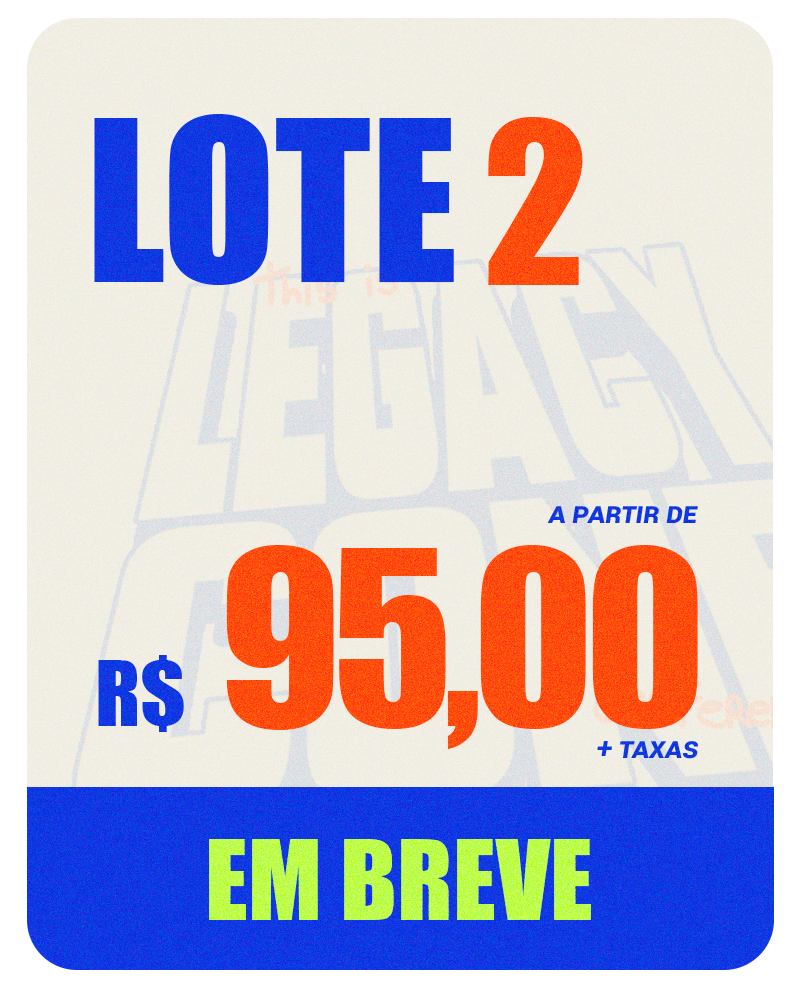
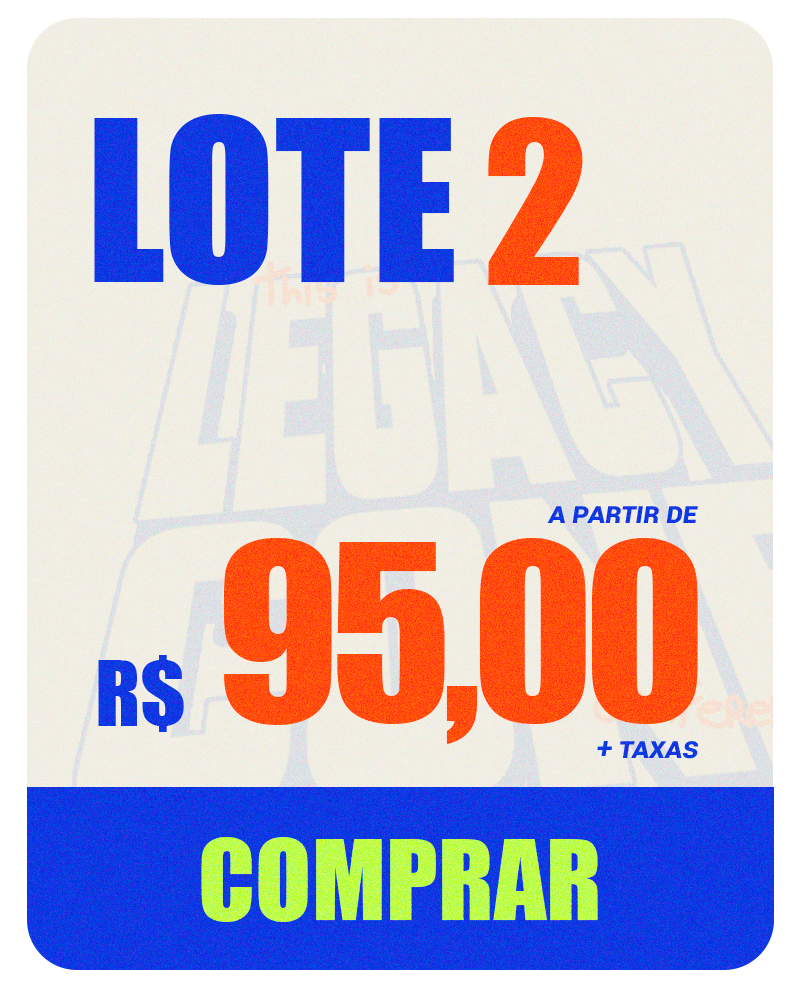
Update lineup, timeline and fix lineup description

diff --git a/src/pages/conference/final.module.css b/src/pages/conference/final.module.css
@@ -13,7 +13,7 @@
   /* box-sizing: border-box; */
   background-color: #c9ff3a;
 
-  background: url("/images/conference/background3.jpg");
+  background-image: url("/images/conference/background3.jpg");
   background-size: cover;
   background-position: center;
 
@@ -75,7 +75,7 @@
   animation: fadeInUp 0.8s ease forwards;
   background-color: #18d7e9;
 
-  background: url("/images/conference/background4.jpg");
+  background-image: url("/images/conference/background4.jpg");
   background-size: cover;
   background-position: center;
 }
@@ -115,9 +115,10 @@
 }
 
 .timelineSection {
-  background: url("/images/conference/background5.jpg");
+  background-image: url("/images/conference/background5.jpg");
   background-size: cover;
   background-position: center;
+  background-color: #fc447a;
 
   max-width: unset !important;
   padding: 0;
@@ -139,9 +140,13 @@
   margin: 0;
   width: 100%;
 
-  background: url("/images/conference/background6.jpg");
+  background-color: #d1fc5e;
+  background-image: url("/images/conference/background6.jpg");
   background-size: cover;
   background-position: center;
+}
+.lineUpSection .textContainer {
+  width: calc(100% - 80px);
 }
 .lineUpContainer {
   max-width: 1200px;
@@ -154,7 +159,8 @@
 }
 
 .ticketsSection {
-  background: url("/images/conference/background7.jpg");
+  background-color: #d1fc5e;
+  background-image: url("/images/conference/background7.jpg");
   background-size: cover;
   background-position: center;
 }

diff --git a/src/pages/conference/finalConf.jsx b/src/pages/conference/finalConf.jsx
@@ -19,9 +19,10 @@ const FinalConference = () => {
       image: "/images/conference/lineup/fhop.jpg",
     },
     {
-      name: "",
-      description: "",
-      image: "",
+      name: "Pr. Isaías Fernandes",
+      description:
+        "Isaías Fernandes é pastor, teólogo, advogado, professor, marido da Nubia e pai da Ísis. Atualmente é pastor auxiliar na Igreja Lagoinha Matriz. Também é o professor da Escola Bíblica Dominical e do Seminário Teológico Carisma.",
+      image: "/images/conference/lineup/isaias.jpg",
     },
     {
       name: "",
@@ -58,15 +59,16 @@ const FinalConference = () => {
       titulo: "Lote 1",
       valor: "",
       isActive: true,
-      image: "/images/conference/tickets/lote1.png",
-      url: REDIRECT_URL,
+      image: "/images/conference/tickets/lote1-esgotado.png",
+      
     },
     {
       status: "Comprar",
       titulo: "Lote 2",
       valor: "",
-      isActive: false,
+      isActive: true,
       image: "/images/conference/tickets/lote2.png",
+      url: REDIRECT_URL,
     },
     {
       status: "Comprar",
@@ -95,7 +97,7 @@ const FinalConference = () => {
               ambiente onde o céu invade a terra e corações são transformados.
             </p>
 
-          <RedirectButton redirectUrl={REDIRECT_URL} />
+            <RedirectButton redirectUrl={REDIRECT_URL} />
           </div>
         </div>
 

diff --git a/src/components/conference/Timeline/styles.module.css b/src/components/conference/Timeline/styles.module.css
@@ -26,7 +26,7 @@
   position: absolute;
   height: 100%;
   background-color: #d1fc5e;
-  width: 40%; /* Progresso (ajuste manual) */
+  width: 52%; /* Progresso (ajuste manual) */
   z-index: 1;
   border-radius: 10px;
   transition: width 0.8s ease-in-out;
@@ -92,7 +92,7 @@
 
   .line::before {
     width: 100%;
-    height: 40%; /* Progresso na vertical */
+    height: 56%; /* Progresso na vertical */
   }
 
   .step {
@@ -106,6 +106,10 @@
   .date {
     margin: 0;
     width: 40px;
+    display: flex;
+    justify-content: center;
+    align-items: center;
+    text-align: right;
   }
 
   .text {
@@ -113,5 +117,8 @@
     margin-bottom: 0;
     text-align: left;
     width: 100px;
+    display: flex;
+    /* justify-content: center; */
+    align-items: center;
   }
 }

diff --git a/src/components/conference/Timeline/index.jsx b/src/components/conference/Timeline/index.jsx
@@ -25,8 +25,8 @@ const Timeline = () => {
         </p>
       </div>
 
-      <div className={`${styles.step}`}>
-        <p className={styles.date}>Em breve</p>
+      <div className={`${styles.step} ${styles.done}`}>
+        <p className={styles.date}>09/08</p>
         <div className={styles.dot}></div>
         <p className={styles.text}>
           2° lote
@@ -34,7 +34,7 @@ const Timeline = () => {
       </div>
 
       <div className={`${styles.step}`}>
-        <p className={styles.date}></p>
+        <p className={styles.date}>Em breve</p>
         <div className={styles.dot}></div>
         <p className={styles.text}>
           3° lote

diff --git a/src/components/conference/Faq/styles.module.css b/src/components/conference/Faq/styles.module.css
@@ -1,8 +1,8 @@
 .faqSection {
   /* padding: 60px 20px; */
   /* color: #fff; */
-  background: url("/images/conference/background8.jpg");
-
+  background-image: url("/images/conference/background8.jpg");
+  background-color: #253add;
   background-size: cover;
   background-position: center;
   max-width: unset !important;
